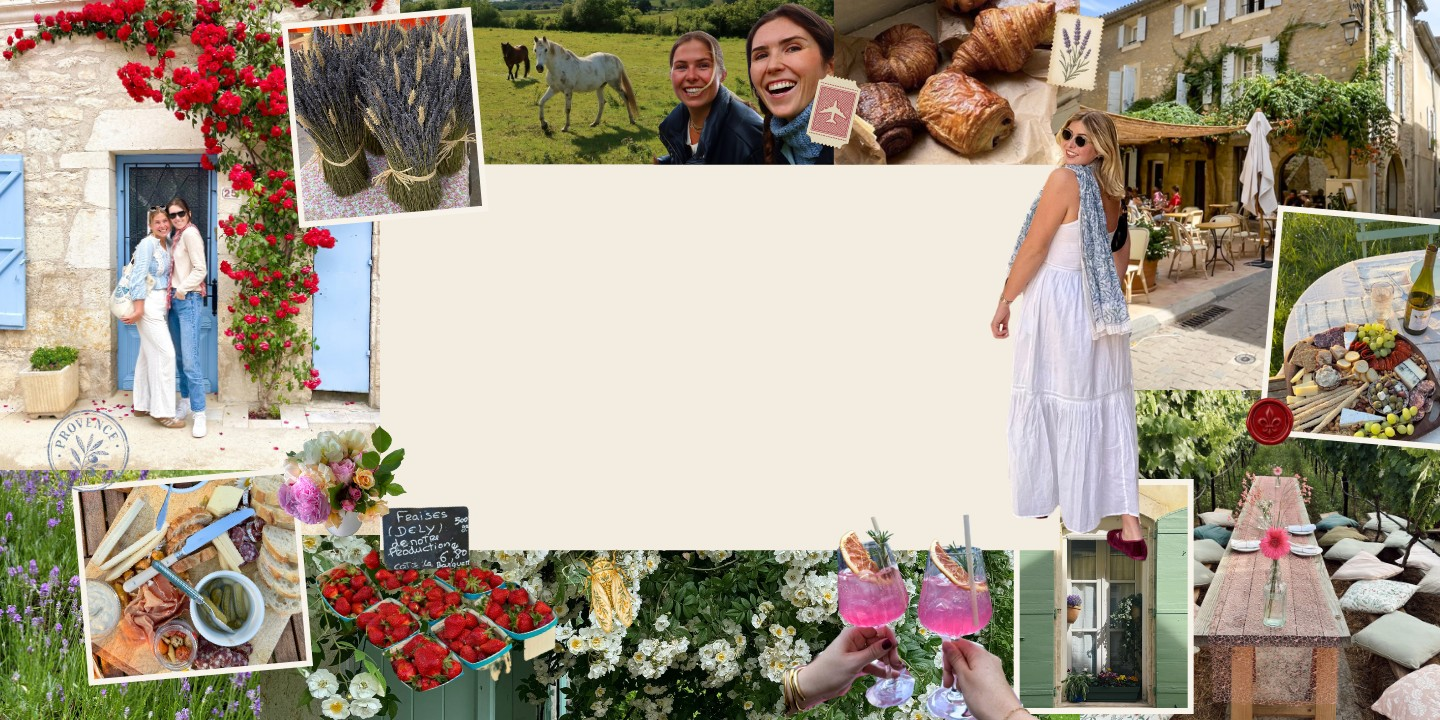
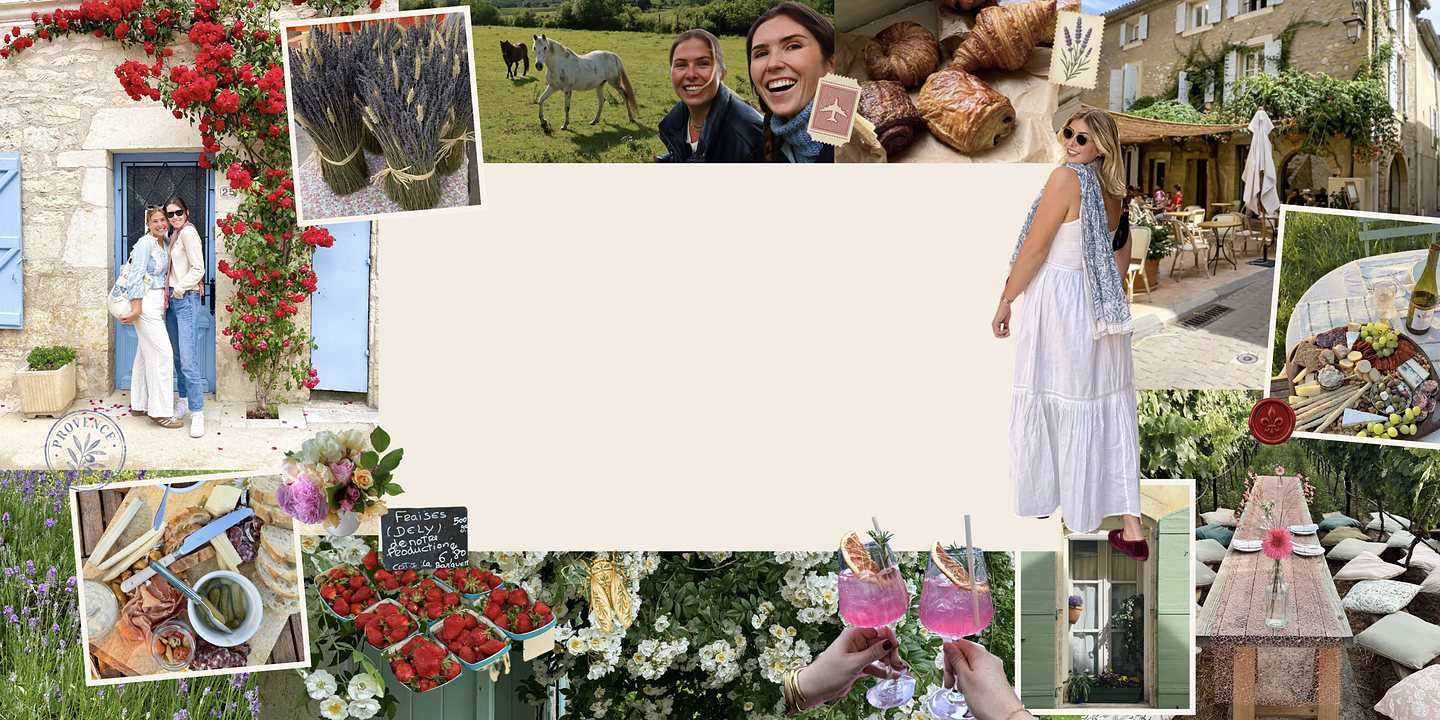
Retreats hero: Emmy's new collage at 2x with responsive sizes
Claude-Session: https://claude.ai/code/session_016Q8dL6JmJZhik5BirDmPp2

diff --git a/src/pages/RetreatsPage.css b/src/pages/RetreatsPage.css
@@ -16,23 +16,23 @@
 .rt img:hover { transform: none; }
 
 /* ---------- Opening ---------- */
-.rt-banner { margin-top: 72px; /* clears the fixed nav */ background: #f3ece1; }
+.rt-banner { margin-top: 72px; /* clears the fixed nav */ background: #f2ece2; }
 .rt-banner-frame { position: relative; max-width: 1600px; margin: 0 auto; container-type: inline-size; }
 .rt-banner-frame img { display: block; width: 100%; height: auto; }
-.rt-banner-copy { padding: 2.2rem 1.5rem 2.6rem; text-align: center; background: #f3ece1; }
+.rt-banner-copy { padding: 2.2rem 1.5rem 2.6rem; text-align: center; background: #f2ece2; }
 .rt-welcome { margin: 0; font-style: italic; font-size: 1.15rem; }
 .rt-title { margin: 0.3rem 0 0.7rem; font-weight: 500; font-size: clamp(2.6rem, 11vw, 3.6rem); line-height: 1.05; color: var(--rt-olive); }
 .rt-def { margin: 0 auto 0.8rem; max-width: 420px; font-size: 0.78rem; line-height: 1.5; opacity: 0.7; }
 .rt-meta { margin: 0 0 1rem; font-size: 0.72rem; letter-spacing: 0.22em; text-transform: uppercase; }
 .rt-lede { margin: 0 auto 1.6rem; max-width: 460px; font-size: 0.98rem; line-height: 1.7; }
-/* wide screens: the text sits in the empty cream area of the 1440x720 collage */
+/* wide screens: the text sits in the empty cream area of the 2:1 collage */
 @media (min-width: 1000px) {
   .rt-banner-copy {
     position: absolute;
-    left: 27%;
-    top: 23.4%;
-    width: 41.5%;
-    height: 52.8%;
+    left: 29.5%;
+    top: 24%;
+    width: 40%;
+    height: 49%;
     box-sizing: border-box;
     padding: 0;
     background: none;
@@ -42,7 +42,7 @@
     justify-content: center;
   }
   .rt-welcome { font-size: max(1rem, 1.5cqw); }
-  .rt-title { font-size: 4.3cqw; white-space: nowrap; margin: 0.3cqw 0 0.8cqw; }
+  .rt-title { font-size: 4.1cqw; white-space: nowrap; margin: 0.3cqw 0 0.8cqw; }
   .rt-def { font-size: max(0.66rem, 0.8cqw); max-width: 90%; margin-bottom: 1cqw; }
   .rt-meta { font-size: max(0.62rem, 0.82cqw); margin-bottom: 1.1cqw; }
   .rt-lede { font-size: max(0.78rem, 1.12cqw); max-width: 88%; margin-bottom: 1.8cqw; }
@@ -54,13 +54,6 @@
 }
 .rt img:hover { transform: none; }
 
-/* ---------- Opening ---------- */
-.rt-banner { margin-top: 72px; /* clears the fixed nav */ background: #f7f4ef; }
-.rt-banner-frame { position: relative; max-width: 1600px; margin: 0 auto; }
-.rt-banner-frame img { display: block; width: 100%; height: auto; }
-/* over the "Get on the interest list" button drawn in the 1440x720 design */
-.rt-banner-hit { position: absolute; left: 42.6%; top: 66.3%; width: 16.5%; height: 5.9%; display: block; }
-.rt-banner .rt-banner-mobile { display: none; width: fit-content; margin: 1.5rem auto; }
 .rt-sr { position: absolute; width: 1px; height: 1px; overflow: hidden; clip: rect(0 0 0 0); white-space: nowrap; }
 .rt-btn {
   display: inline-block;

diff --git a/src/pages/RetreatsPage.js b/src/pages/RetreatsPage.js
@@ -27,14 +27,18 @@ function RetreatsPage() {
         <header className="rt-banner">
           <div className="rt-banner-frame">
             <picture>
-              <source srcSet="/videos/retreat-collage.webp" type="image/webp" />
+              <source
+                type="image/webp"
+                srcSet="/videos/retreat-collage-960.webp 960w, /videos/retreat-collage-1440.webp 1440w, /videos/retreat-collage-1920.webp 1920w, /videos/retreat-collage-2880.webp 2880w"
+                sizes="(min-width: 1600px) 1600px, 100vw"
+              />
               <img
                 src="/videos/retreat-collage.jpg"
                 width="1440"
                 height="720"
                 fetchPriority="high"
                 decoding="async"
-                alt="A collage of Provence: lavender bundles, a market stall of strawberries, cafés on a stone street, a charcuterie board, pink spritzes, a long dinner table in the vines, and Emmy and Hannah in a blue doorway covered in red roses"
+                alt="A collage of Provence: Emmy and Hannah in a blue doorway covered in red roses, lavender bundles, a selfie with horses, croissants, a café street, a charcuterie board with wine, a long table set in the vines, strawberries at the market, and pink spritzes"
               />
             </picture>
             <div className="rt-banner-copy">
